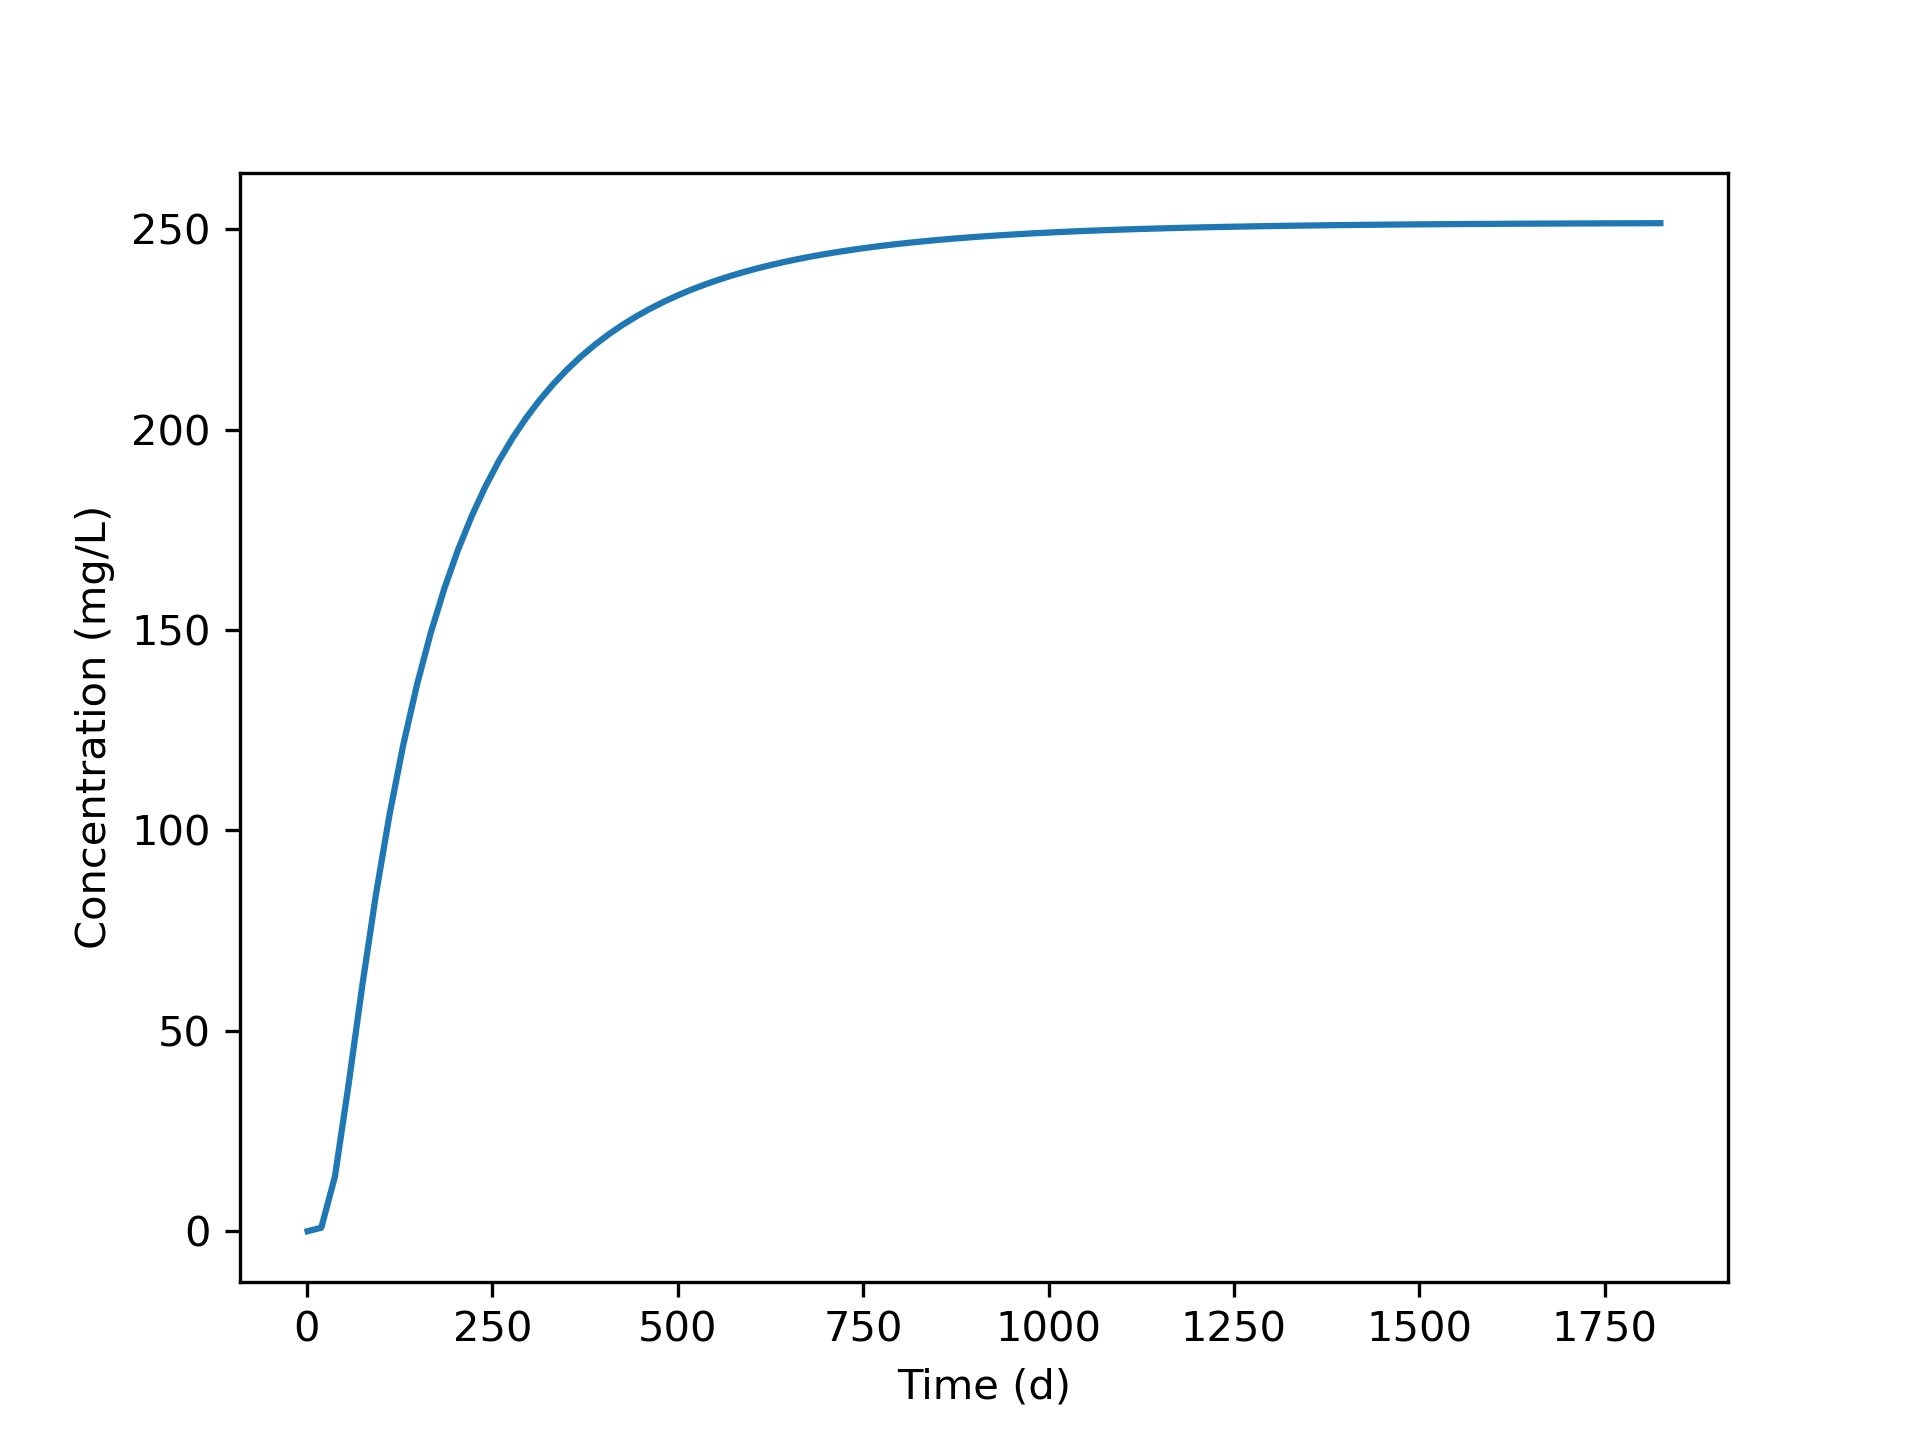
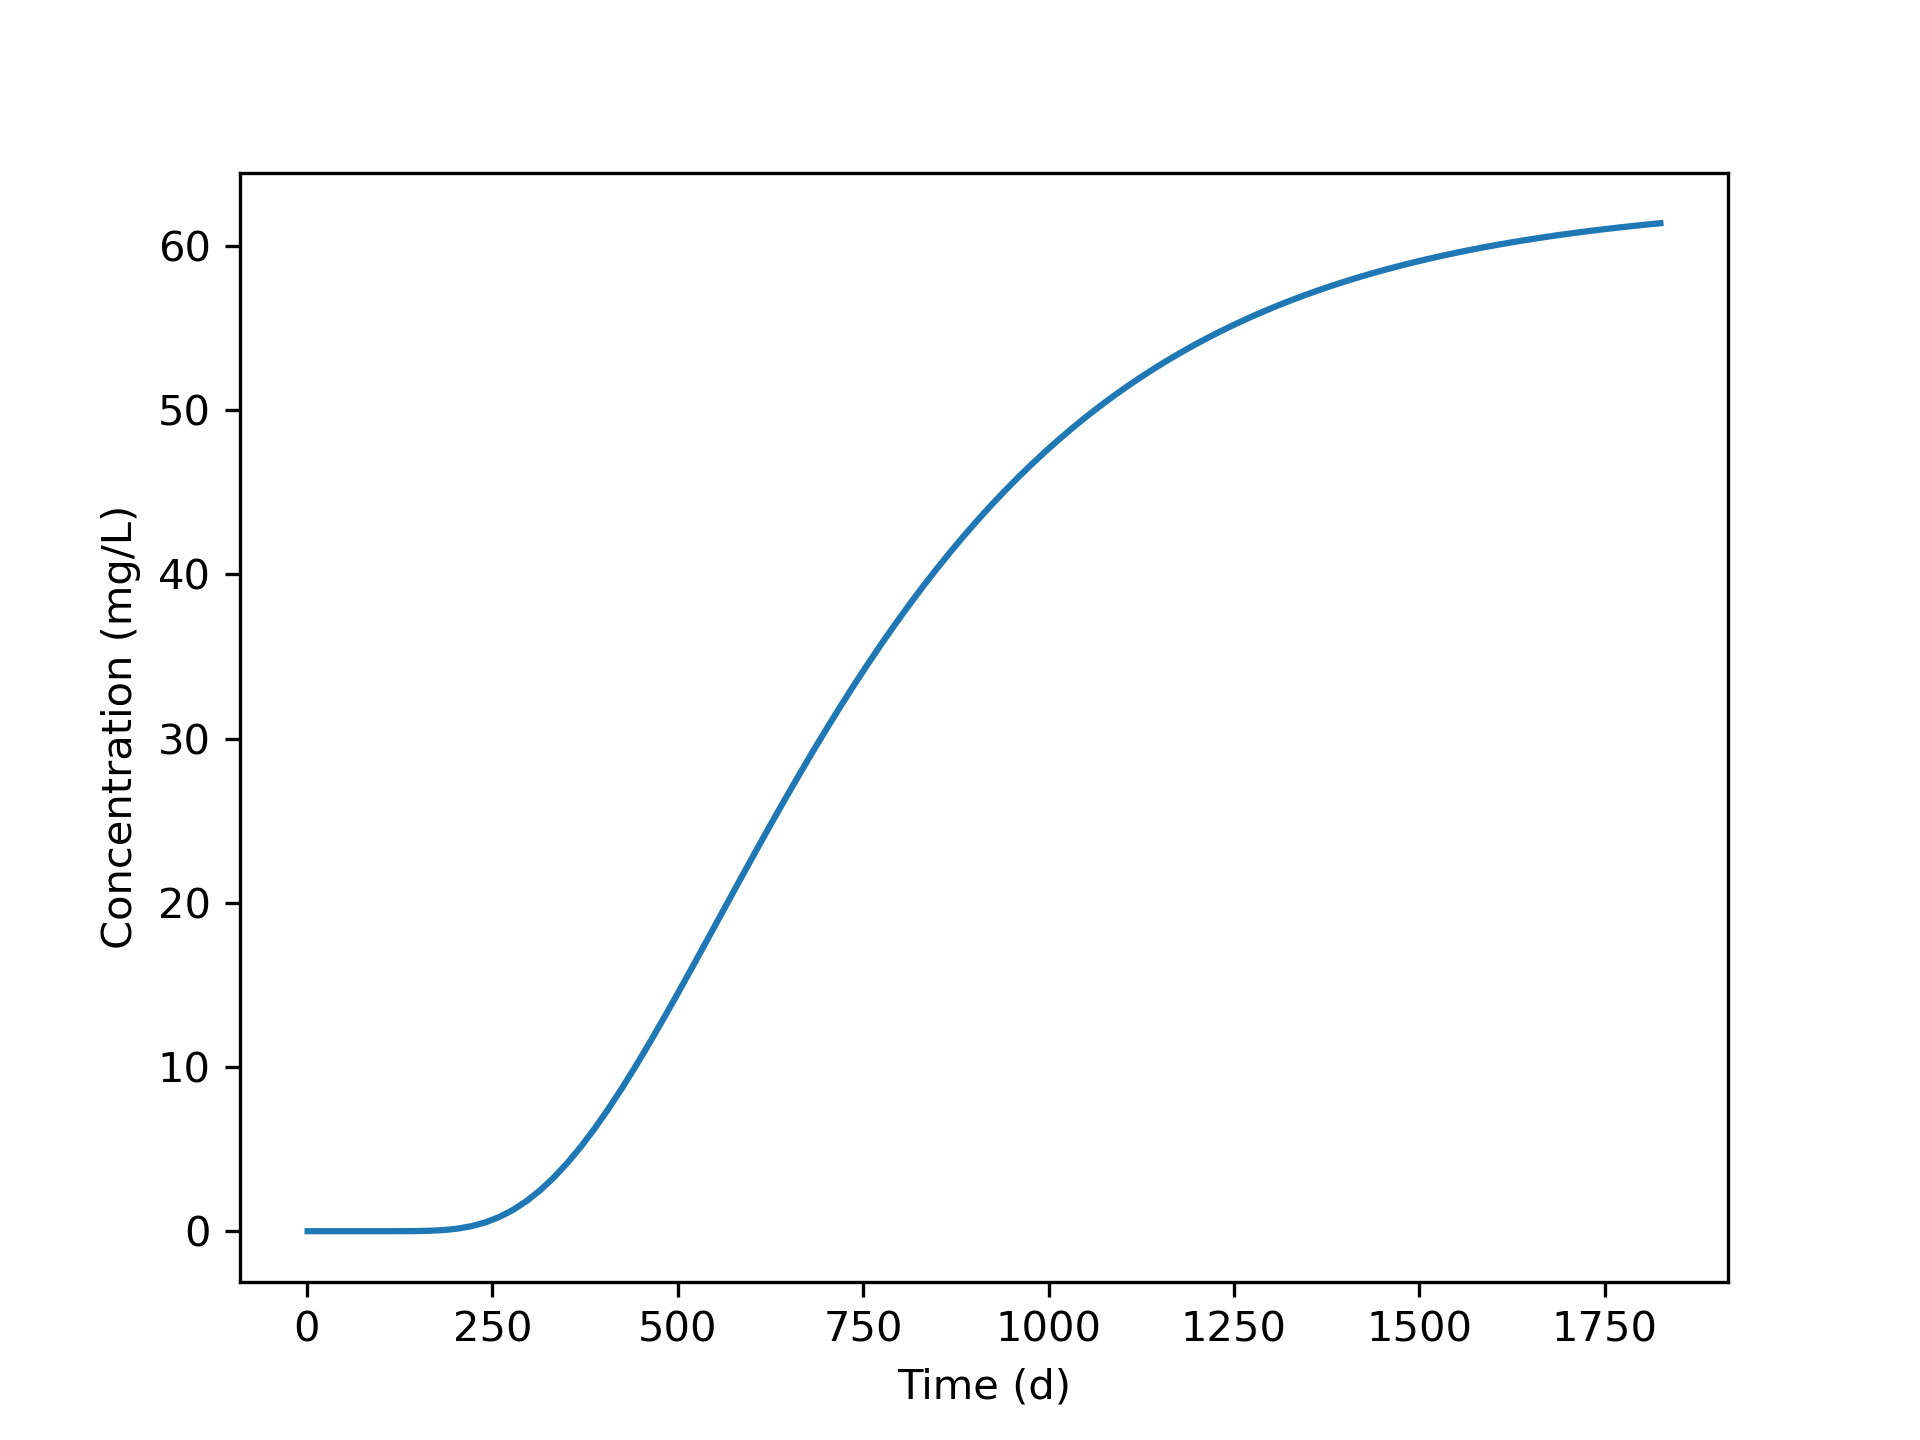
updated readme ts figure

diff --git a/README.md b/README.md
@@ -2,7 +2,7 @@
 
 AdePy contains analytical solutions for the advection-dispersion equation (ADE) describing solute transport in groundwater, written in Python. 
 
-Currently, all solutions shown in [Wexler (1992)](https://doi.org/10.3133/twri03B7) are provided as separate Python functions. These simulate 1D, 2D or 3D solute transport in uniform background flow for a variety of boundary conditions and source geometries. The solute may be subjected to linear sorption and first-order decay. 
+Currently, all solutions shown in [Wexler (1992)](https://doi.org/10.3133/twri03B7) are provided as separate Python functions. These simulate 1D, 2D or 3D solute transport in uniform background flow for a variety of boundary conditions and source geometries. The solute may be subjected to linear equilibrium sorption and first-order decay. 
 
 Since all equations are linear, superposition in time and space can be applied to create complex source geometries with time-varying source concentrations. Gauss-Legendre quadrature is used to solve the integrals which require numerical integration. Sequential or parallel first-order parent-daughter chain reactions are supported using the method described by [Sun & Clement (1999)](https://doi.org/10.1023/A:1006507514019).
 
@@ -78,7 +78,7 @@ plt.grid()
 
 ```python
 # Calculate and plot the concentration time series for 5 years at a location downstream ----
-obs = (10, 0, 0)  # x-y-z coordinates of observation point, m
+obs = (40, 0, 0)  # x-y-z coordinates of observation point, m
 t = np.linspace(1, 5 * 365, 100)  # output times, d
 cobs = point3(c0, obs[0], obs[1], obs[2], t, v, n, al, ah, av, Q, xc, yc, zc)
 
@@ -92,4 +92,4 @@ plt.ylabel('Concentration (mg/L)')
 ## References
 [Wexler, E.J., 1992. *Analytical solutions for one-, two-, and three-dimensional solute transport in ground-water systems with uniform flow*, USGS Techniques of Water-Resources Investigations 03-B7, 190 pp., https://doi.org/10.3133/twri03B7](https://doi.org/10.3133/twri03B7)
 
-[Sun, Y., Clement, T.P., 1999. *A Decomposition Method for Solving Coupled Multi–Species Reactive Transport Problems*, Transport in Porous Media 37, pp. 327–346, https://doi.org/10.1023/A:1006507514019](https://doi.org/10.1023/A:1006507514019)
+[Sun, Y., Clement, T.P., 1999. *A Decomposition Method for Solving Coupled Multi–Species Reactive Transport Problems*, Transport in Porous Media 37, p. 327–346, https://doi.org/10.1023/A:1006507514019](https://doi.org/10.1023/A:1006507514019)
